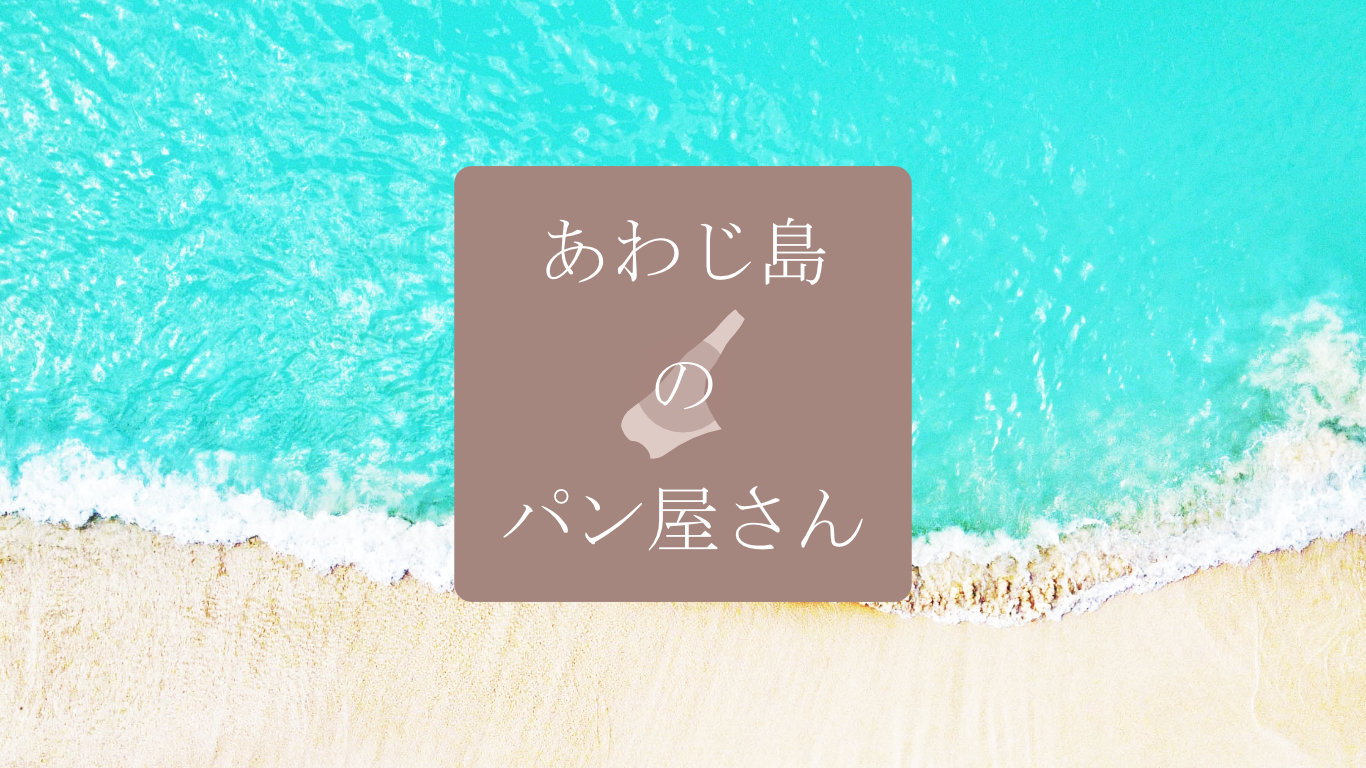
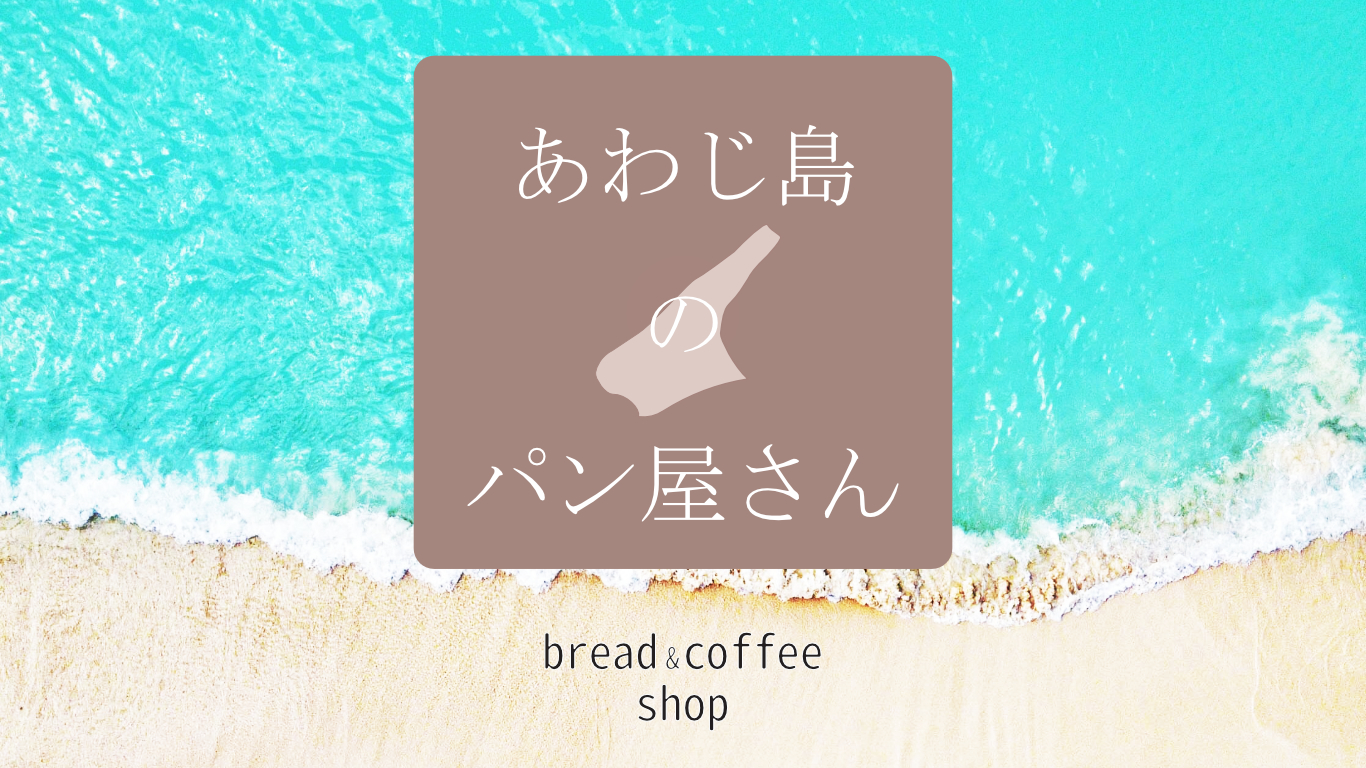
メイン画面更新とレイアウト変更

Changed region(s): [[0.2767, 0.0625, 0.7072, 0.7812], [0.3997, 0.8125, 0.6149, 0.875], [0.4612, 0.9062, 0.5534, 0.9375]]

diff --git a/img/index.html b/img/index.html
@@ -1,0 +1,168 @@
+<!DOCTYPE html>
+<html lang="ja">
+   <head>
+      <meta charset="UTF-8">
+      <title>あわじ島のパン屋さん</title>
+      <meta name="description" content="あわじ島のパン屋さん">
+      <meta name="viewport" content="width=device-width, initial-scale=1">
+      <link rel="stylesheet" href="main.css">
+   </head>
+
+<body>
+
+    <headre id="shopname">
+      <div class="mainimg">  
+         <img src="img/main.jpg" ait="オシャレなカフェ">
+     </div> 
+        <nav>
+           <ul>
+              <li><a href="#shophome">home</a></li>
+              <li><a href="#about">about</a></li>
+              <li><a href="#menu">menu</a></li>
+              <li><a href="#news">news</a></li>
+              <li><a href="#access">access</a></li>
+              <li><a href="#introduction">introduction</a></li>
+           </ul>
+        </nav>
+    </headre>
+
+    <main>
+          
+         
+         
+          <div id="about"></div>
+          <div class="about">
+               <h2 class="h2style">お店について<br><span>about</span></h2>
+               <h3>海が見える小さなパン屋</h3>
+               <p>パンが大好きなことからパン屋を始めました。<br>パンの中でもおススメするクロワッサン50個と<br>ベーグル50個を毎日作っています。</p>
+               <p>営業時間　9:00～14:00（定休 月曜日）<br>℡080-xxxx-xxxx</p>
+               
+
+          </div>     
+
+          <div id="menu"></div>
+          <div class="menu">
+             <h2 class="h2style">メニュー<br><span>menu</span></h2>
+             <ul>
+                <li>
+                   <img src="img/about_01.jpg">
+                   <h3>自慢の大きいクロワッサン　250円(税込)</h3>
+                   <p>生地と焼き方にこだわりました。</p>
+               </li>
+               <li>
+                   <img src="img/about_02.jpg">
+                   <h3>もっちりのベーグル　250円(税込)</h3>
+                   <p>食感と味にこだわりました。</p>
+              </li>
+              <li>
+                   <img src="img/about_03.jpg">
+                   <h3>オリジナルのカフェラテ　400円(税込)</h3>
+                   <p>パンに合うようブレンドしています。</p>
+              </li>         
+             </ul> 
+          </div>
+
+          <div id="news"></div>
+          <div class="news">
+            <h2 class="h2style">お知らせ<br><span>news</span></h2>
+              <table>
+               <tr>
+                  <th>2023.02.12</th>
+                  <td>ＨＰに「ご紹介」したいパン屋を追加いたしました。</td>
+                </tr>
+                <tr>
+                  <th>2023.02.11</th>
+                  <td>あわじ島情報誌「ダン」に掲載されました。</td>
+                </tr>
+                <tr>
+                  <th>2023.02.10</th>
+                  <td>店内で軽食できる「カフェスペース」ができました。</td>
+                </tr>
+                <tr>
+                  <th>2023.02.01</th>
+                  <td>「あわじ島のパン屋さん」をオープンいたしました。</td>
+                </tr>
+              </table>
+          </div>
+
+          <div class="instagrambt">
+            <a href="kkkkk"><img src="img/インスタ.png">instaguram</a>
+            <p>後日公開予定</p>
+         </div>
+
+
+          <div id="access"></div>
+          <div class="access">
+            <h2 class="h2style">アクセス<br><span>access</span></h2>
+               <h3>〒656-0000　洲本市 海岸通り xxx</h3>
+               <iframe
+                  src="https://www.google.com/maps/embed?pb=!1m18!1m12!1m3!1d13175.055802509967!2d134.8830178313949!3d34.356485188385925!2m3!1f0!2f0!3f0!3m2!1i1024!2i768!4f13.1!3m3!1m2!1s0x3554b1ab8958c469%3A0xa27ad9224a402381!2z44CSNjU2LTAwMTEg5YW15bqr55yM5rSy5pys5biC54Ks5Y-j!5e0!3m2!1sja!2sjp!4v1676288127263!5m2!1sja!2sjp" width="550" height="400" style="border:0;" allowfullscreen="" loading="lazy" referrerpolicy="no-referrer-when-downgrade"></iframe>"
+                  
+
+               <!-- <a href="https://goo.gl/maps/NFUAHwViz767FC5n9"></a> -->
+
+          </div>
+ 
+        
+
+          
+          <div id="introducing"></div>
+          <div class="introducing">
+             <h2 class="h2style">ご紹介<br><span>introducing</span></h2>
+             <p>私はパン屋さんですが、あわじ島には沢山の美味しいパン屋があります。ご紹介させていただきます。</p>
+             <ul>   
+                <li>
+                   <img src="img/content_01.jpg">
+                   <div class="introducinghpa">
+                     <h3>Boulangerie&Cafe 平野パン</h3>
+                     <p>カフェもできるパン屋さん。モーニング パン食べ放題のランチが人気です。</p>
+                     <a href="https://www.instagram.com/hiranopan_insta/">Linkはこちら</a>
+                  </div>
+               </li>
+               <li>
+                  <img src="img/content_02.jpg">
+                  <div class="introducinghpa"> 
+                     <h3>Boulangerie RURAL</h3>
+                     <p>目の前に田園風景が広がる、淡路島のベーカリーです。</p>
+                     <a href="https://www.instagram.com/boulangerie.rural/">Linkはこちら</a>
+                  </div>
+               </li>
+                  
+               <li>
+                   <img src="img/content_03.jpg">
+                   <div class="introducinghpa">
+                     <h3>Fleur</h3>
+                     <p>野菜やフルーツの殆どが生産者より直接購入、生地もこだわりのパン屋さん。</p>
+                     <a href="https://www.instagram.com/boulangerie__fleur/">Linkはこちら</a>
+                   </div>
+                  </li>         
+               </ul> 
+          </div>
+
+
+            <div class="copyright">
+               <p>© 2023 あわじ島のパン屋 bread&coffee</p>
+            </div>
+  
+
+          </div>
+ 
+        
+    </main>
+
+    <footer>
+    </footer>
+
+</body>
+
+
+
+
+
+
+
+
+
+
+
+</html>

diff --git a/img/main.css b/img/main.css
@@ -1,0 +1,192 @@
+body{
+   margin-top: 50px;
+   margin-bottom: 50px;
+ 
+}
+.shopname{
+    text-align: center;
+    font-size: 40px;
+    letter-spacing: 1.2;
+    line-height: 1.2;
+}
+.shopname span{
+    font-size: 15px;
+}
+nav ul li{
+    display: inline-block;
+    margin-right: 50px;
+    font-size: 20px;
+    letter-spacing: 1.2;
+}
+nav ul li:last-child{
+    margin-right: 0;
+}
+nav ul{
+    text-align: center;
+    margin-bottom: 60px;
+}
+
+#shopname a{
+    text-decoration: none;
+}
+a:hover {
+    color: orange;
+}
+
+.mainimg{
+    width: 1000px;
+    margin-left: auto;
+    margin-right: auto;
+    margin-bottom: 60px;
+}
+.mainimg img{
+    width: 100%;
+}
+
+.h2style{
+    text-align: center;
+    font-size: 14px;
+    margin-bottom: 40px;
+    line-height: 1.2;
+    margin-top: 60px;
+}
+.h2style span{
+    font-size: 40px;
+    border-bottom: 1px solid #000;
+}
+
+.about h3{
+    text-align: center;
+    letter-spacing: 1.2;
+}
+.about p{
+    text-align: center;
+    margin-bottom: 40px;
+    letter-spacing: 1.2;
+    line-height: 1.4;
+
+}
+
+.menu{
+    width: 1000px;
+    margin-left: auto;
+    margin-right: auto;
+    margin-bottom: 0px;
+}
+.menu ul{
+    overflow: hidden;
+    padding: 0;
+}
+.menu ul li{
+   float: left;
+    background-color:lightcyan;
+    width: 32%;
+    margin-right: 2%;
+    list-style: none;
+
+}
+.menu ul li:last-child{
+    margin-right: 0;
+}
+.menu ul li img{
+    width: 100%;
+    height: auto;
+}
+.menu ul li h3{
+    text-align: center;
+    font-size: 15px;
+    letter-spacing: 1.2;
+    line-height: 0.8;
+}
+.menu ul li p{
+    text-align: center;
+    font-size: 14px;
+    letter-spacing: 1.2;
+    
+}
+.news{
+
+    margin-top: 60px;
+}
+.news table{
+    margin-left: auto;
+    margin-right: auto;
+}
+
+.news table tr td{
+    padding-left: 15px;
+}
+
+.instagrambt{
+    width: 200px;
+    margin-left: auto;
+    margin-right: auto;
+ 
+}
+.instagrambt a{
+    margin-top: 20px;
+  background: #000;
+    color:white;
+    display: block;
+    text-align: center;
+    padding-top: 15px;
+    text-decoration: none;
+    padding: 10px;
+    border-radius: 4px;
+}
+.instagrambt img{
+    width: 30px;
+}
+
+.access{
+    text-align: center;
+    letter-spacing: 1.2;
+    line-height: 0.8;
+}
+
+
+.introducing p{
+    text-align: center;
+    letter-spacing: 1.2;
+    
+}
+.introducing p{
+    text-align: center;
+}
+.introducing ul{
+    width: 1000px;
+    padding-left: 0px;
+    margin-left: auto;
+    margin-right: auto;
+}
+.introducing img{
+    width: 120px;
+    padding-left: 100px;
+}
+
+
+.introducing ul li{
+    background-color:lightcyan;
+     /* background-image: url(test_img.jpg);    背景画像指定 */
+     /* background-size:  cover;      */
+     list-style: none;
+     margin-bottom: 20px;
+}
+.introducinghpa{
+    display: inline-block;
+    padding-left: 5%;
+ 
+   
+}
+
+.copyright p{
+    margin-top: 60px;
+  text-align: center;
+  letter-spacing: 1.2;
+  line-height: 0.8;
+}
+
+
+
+
+
